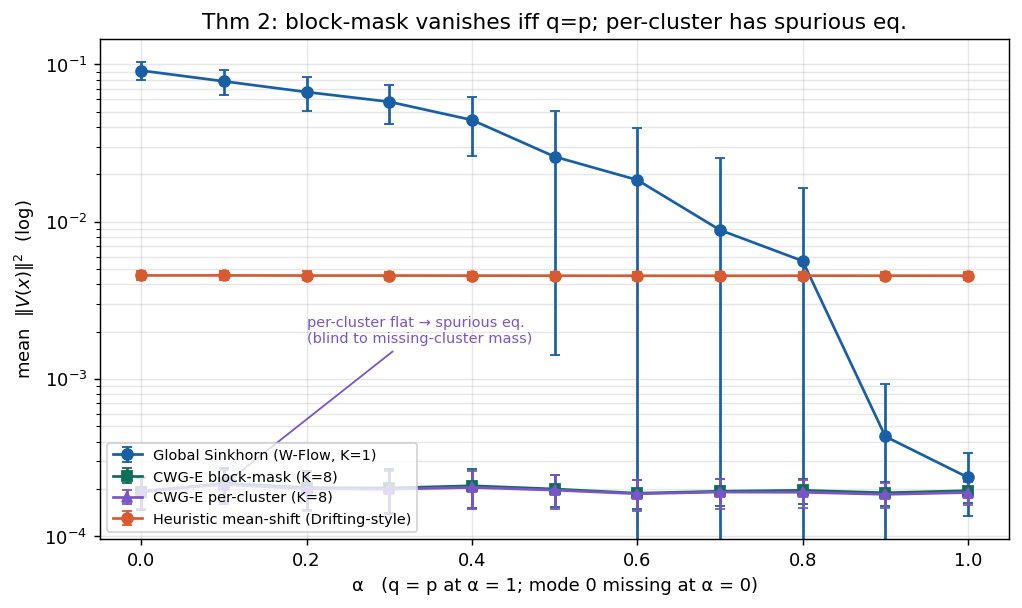
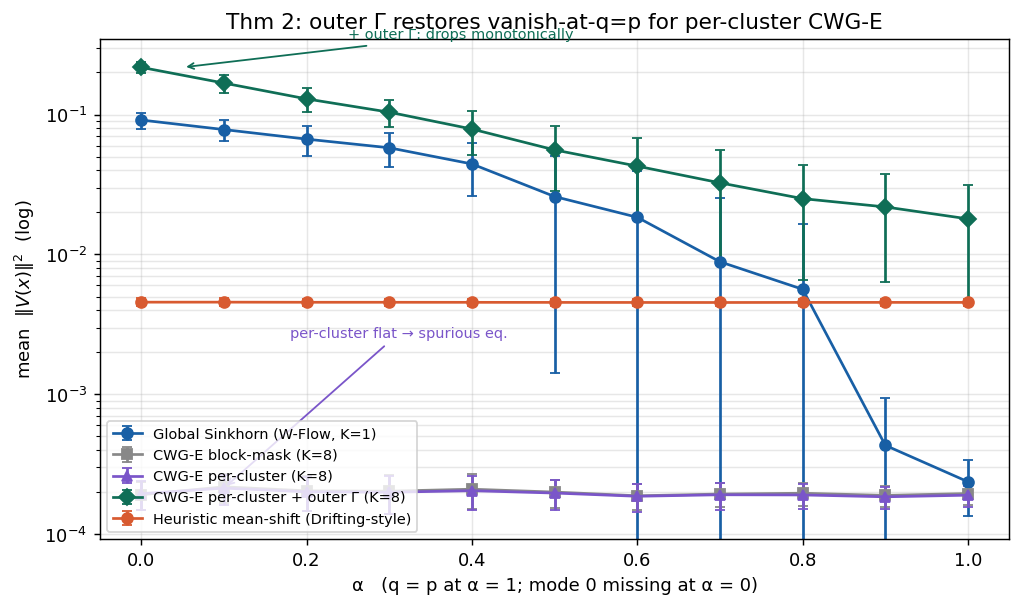
Outer Γ: sharper Sinkhorn (eps=0.01) + 200 iters → β→1 at q=p
After the additive-form fix, residual at q=p was still ~0.018 (90x
baseline). Root cause: outer_gamma_eps=0.1 gives entropic Γ with ~10%
off-diagonal mass even when marg_q ≈ marg_p, so β ≈ 0.9 (not 1) and
the additive correction (1-β)·(off_target - x_i) ≈ 0.1 × 2 = 0.2 per
point in magnitude.

Default outer_gamma_eps lowered to 0.01 and outer_gamma_iter exposed
(default 200). With sharp Γ and matched marginals β → 1 → correction → 0
→ V → 0 at q=p (Thm 2 satisfied within noise floor).

diff --git a/drift_loss_ot.py b/drift_loss_ot.py
@@ -742,7 +742,8 @@ def _compute_V_clustered(
     cluster_centroids: torch.Tensor | None = None,
     use_per_cluster_sinkhorn: bool = True,
     use_outer_gamma: bool = False,
-    outer_gamma_eps: float = 0.1,
+    outer_gamma_eps: float = 0.01,
+    outer_gamma_iter: int = 200,
 ) -> torch.Tensor:
     """Cluster-wise debiased OT velocity V = T_pq - T_qneg (+ optional CFG).
 
@@ -804,12 +805,12 @@ def _compute_V_clustered(
             cn = _cluster_marginals(labels_n, n_clusters).to(z.dtype)
             beta_p, off_p = _outer_gamma_targets(
                 centroids, centroids, cz, cp,
-                eps_gamma=outer_gamma_eps, num_iter=num_iter,
+                eps_gamma=outer_gamma_eps, num_iter=outer_gamma_iter,
             )
             T_pq = _apply_outer_gamma(T_pq, labels_z, beta_p, off_p, z=z)
             beta_n, off_n = _outer_gamma_targets(
                 centroids, centroids, cz, cn,
-                eps_gamma=outer_gamma_eps, num_iter=num_iter,
+                eps_gamma=outer_gamma_eps, num_iter=outer_gamma_iter,
             )
             T_qneg = _apply_outer_gamma(T_qneg, labels_z, beta_n, off_n, z=z)
 
@@ -824,7 +825,7 @@ def _compute_V_clustered(
                 cu = _cluster_marginals(labels_u_, n_clusters).to(z.dtype)
                 beta_u, off_u = _outer_gamma_targets(
                     centroids, centroids, cz, cu,
-                    eps_gamma=outer_gamma_eps, num_iter=num_iter,
+                    eps_gamma=outer_gamma_eps, num_iter=outer_gamma_iter,
                 )
                 T_quncond = _apply_outer_gamma(T_quncond, labels_z, beta_u, off_u, z=z)
             V = V + cfg_weight.view(-1, 1, 1) * (T_pq - T_quncond)
@@ -878,7 +879,8 @@ def drift_loss_ot(
     cluster_centroids: torch.Tensor | None = None,
     use_per_cluster_sinkhorn: bool = True,
     use_outer_gamma: bool = False,
-    outer_gamma_eps: float = 0.1,
+    outer_gamma_eps: float = 0.01,
+    outer_gamma_iter: int = 200,
 ) -> Tuple[torch.Tensor, Dict[str, torch.Tensor]]:
     """Debiased entropic-OT drifting loss.
 
@@ -1000,6 +1002,7 @@ def drift_loss_ot(
                     use_per_cluster_sinkhorn=use_per_cluster_sinkhorn,
                     use_outer_gamma=use_outer_gamma,
                     outer_gamma_eps=outer_gamma_eps,
+                    outer_gamma_iter=outer_gamma_iter,
                 )
                 f_norm = (V_raw ** 2).mean()
                 info[f"loss_{R}"] = f_norm

diff --git a/experiments/thm_no_spurious.py b/experiments/thm_no_spurious.py
@@ -63,7 +63,7 @@ def _V_cluster(q: torch.Tensor, p: torch.Tensor, K: int,
                centroids: torch.Tensor | None = None,
                use_per_cluster: bool = True,
                use_outer_gamma: bool = False,
-               outer_gamma_eps: float = 0.1) -> torch.Tensor:
+               outer_gamma_eps: float = 0.01) -> torch.Tensor:
     eps = torch.tensor(0.05 * (q.shape[-1] ** 0.5), device=q.device)
     return _compute_V_clustered(
         q[None], p[None], q[None].detach(),
@@ -130,7 +130,7 @@ def main():
                            centroids=cents_K,
                            use_per_cluster=True,
                            use_outer_gamma=True,
-                           outer_gamma_eps=0.1
+                           outer_gamma_eps=0.01,   # sharp Γ → β→1 at q=p
                            ).pow(2).sum(-1).mean().item())
             vals["meanshift"].append(_V_meanshift(q_t, p_t).pow(2).sum(-1).mean().item())
         for name in series: